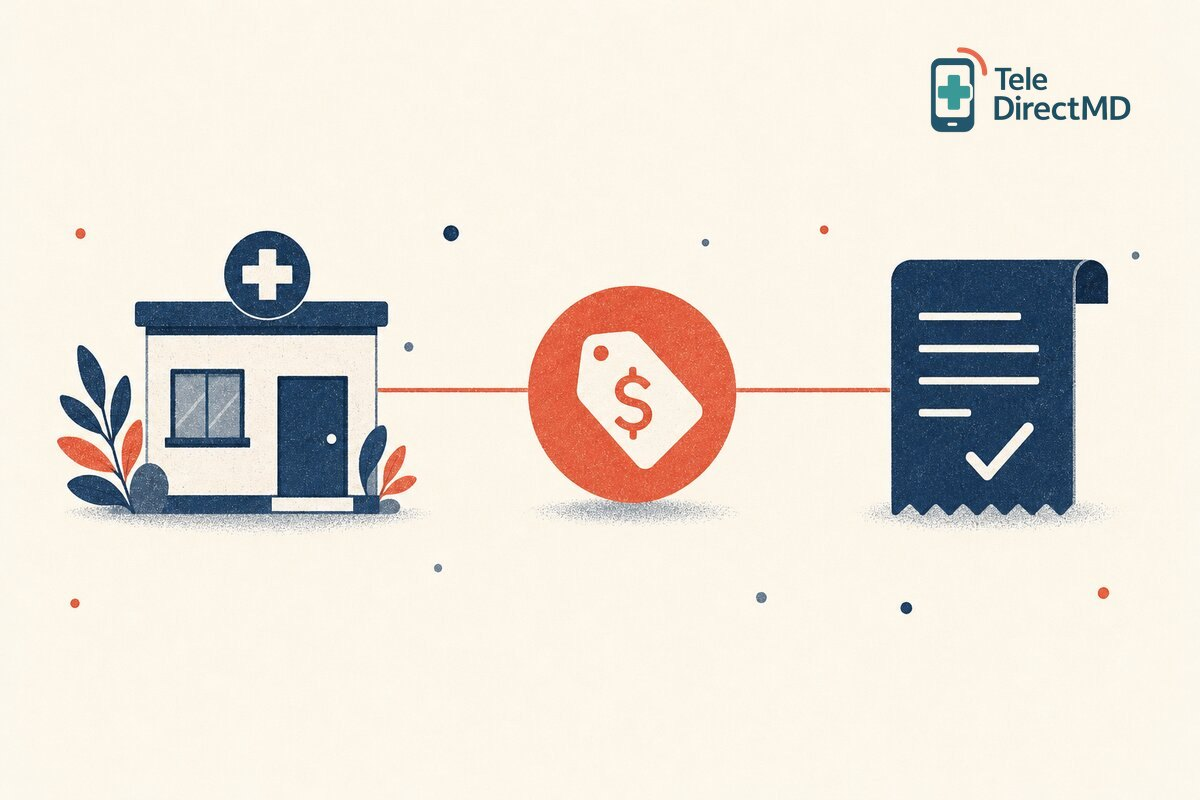
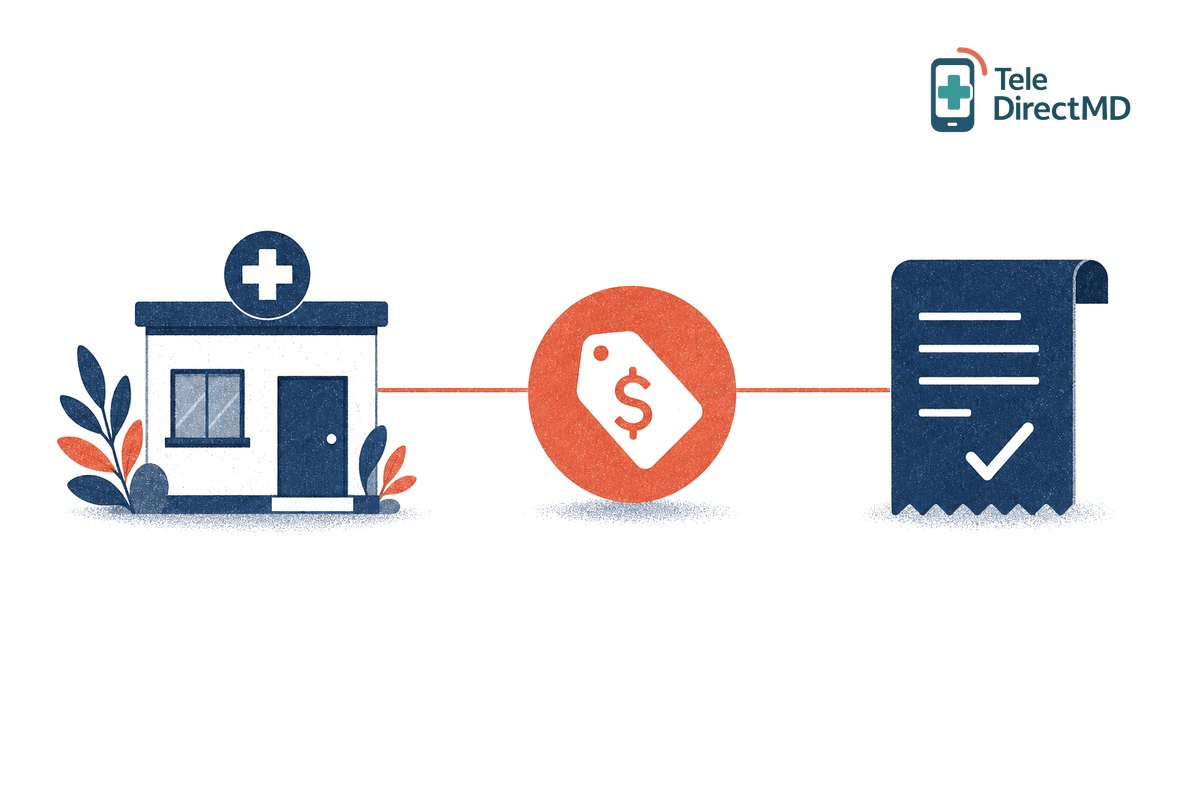
Urgent care cost page: plain white layout, hero on white without decorative dots
Removes the cream background, pill badge, stat tiles and card styling.

diff --git a/app/cost/urgent-care-cost-without-insurance/page.js b/app/cost/urgent-care-cost-without-insurance/page.js
@@ -251,7 +251,6 @@ export default function UrgentCareCostPage() {
         </nav>
 
         <header className="ucx-head">
-          <span className="ucx-badge">Cost data, 2026</span>
           <h1 className="ucx-h1">{TITLE}</h1>
           <p className="ucx-sub">
             Public benchmarks from Medicare, employer health plans and the national pharmacy cost survey, with what each
@@ -277,22 +276,6 @@ export default function UrgentCareCostPage() {
             per urgent care visit in 2022
             <Cite id="ref-hcci" />. X-rays, lab tests and prescriptions are billed on top.
           </p>
-          <ul className="ucx-keys">
-            <li>
-              <span className="ucx-key-n">{range([low13.v99213[0], high13.v99213[1]])}</span>
-              <span className="ucx-key-l">
-                Medicare 2026 returning-patient visit, lowest ({low13.state}) to highest ({high13.state}) area
-              </span>
-            </li>
-            <li>
-              <span className="ucx-key-n">{usd(N.x71046)}</span>
-              <span className="ucx-key-l">Medicare 2026 national amount, two-view chest x-ray</span>
-            </li>
-            <li>
-              <span className="ucx-key-n">Under $10</span>
-              <span className="ucx-key-l">What pharmacies paid for each of four common generic courses below</span>
-            </li>
-          </ul>
         </section>
 
         <figure className="ucx-hero">
@@ -300,7 +283,7 @@ export default function UrgentCareCostPage() {
             src={HERO}
             alt="Illustration of an urgent care clinic, a price tag and a paid receipt"
             width="1536"
-            height="1024"
+            height="500"
             loading="lazy"
           />
         </figure>
@@ -367,7 +350,8 @@ export default function UrgentCareCostPage() {
           <p>
             Medicare adjusts its rates for local costs. Where a state has more than one Medicare payment area, the table
             shows the lowest and highest. Use it as a reference point when a clinic quotes you a self-pay price; it is
-            not what any clinic must charge.
+            not what any clinic must charge. For a returning-patient visit, the 2026 amounts run from{' '}
+            {usd(low13.v99213[0])} in {low13.state} to {usd(high13.v99213[1])} in the highest-cost part of {high13.state}.
           </p>
           <p>
             <a className="ucx-dl" href={CSV_PATH} download>
@@ -626,59 +610,47 @@ export default function UrgentCareCostPage() {
 }
 
 const CSS = `
-.ucx{--ucx-navy:#003E52;--ucx-ink:#14232b;--ucx-muted:#4a5a62;--ucx-cream:#FBF6EE;--ucx-card:#ffffff;--ucx-line:#e6ddd0;--ucx-coral:#ff5a36;--ucx-coral-ink:#1a0b06;--ucx-teal:#0C8F99;--ucx-soft:#f4efe6;
-  background:var(--ucx-cream);color:var(--ucx-ink);font-family:'DM Sans',-apple-system,BlinkMacSystemFont,'Segoe UI',sans-serif;line-height:1.65;padding:8px 0 56px}
+.ucx{--ucx-navy:#003E52;--ucx-ink:#16242b;--ucx-muted:#4f5f67;--ucx-bg:#ffffff;--ucx-line:#dfe5e8;--ucx-head:#f3f6f7;--ucx-coral:#ff5a36;--ucx-coral-ink:#1a0b06;--ucx-teal:#0C8F99;
+  background:var(--ucx-bg);color:var(--ucx-ink);font-family:'DM Sans',-apple-system,BlinkMacSystemFont,'Segoe UI',sans-serif;line-height:1.65;padding:8px 0 56px}
 .ucx *{box-sizing:border-box}
-.ucx-wrap{max-width:880px;margin:0 auto;padding:0 20px}
+.ucx-wrap{max-width:860px;margin:0 auto;padding:0 20px}
 .ucx a{color:var(--ucx-navy);text-underline-offset:2px}
-.ucx-crumbs{display:flex;flex-wrap:wrap;gap:6px;font-size:14px;color:var(--ucx-muted);padding:16px 0 8px}
+.ucx-crumbs{display:flex;flex-wrap:wrap;gap:6px;font-size:14px;color:var(--ucx-muted);padding:18px 0 6px}
 .ucx-crumbs a{color:var(--ucx-muted)}
-.ucx-head{padding:12px 0 20px}
-.ucx-badge{display:inline-block;font-size:12px;font-weight:700;letter-spacing:.08em;text-transform:uppercase;color:var(--ucx-navy);background:#e7f1f3;border-radius:999px;padding:5px 12px}
-.ucx-h1{font-family:'Fraunces',Georgia,serif;font-weight:600;color:var(--ucx-navy);font-size:clamp(30px,5vw,46px);line-height:1.12;letter-spacing:-.01em;margin:14px 0 12px}
-.ucx-sub{font-size:clamp(17px,2.2vw,19px);color:var(--ucx-muted);margin:0 0 14px;max-width:760px}
-.ucx-meta{display:flex;flex-wrap:wrap;gap:6px 18px;font-size:14px;color:var(--ucx-muted)}
+.ucx-head{padding:10px 0 18px;border-bottom:1px solid var(--ucx-line);margin-bottom:24px}
+.ucx-h1{font-family:'Fraunces',Georgia,serif;font-weight:600;color:var(--ucx-navy);font-size:clamp(30px,5vw,44px);line-height:1.14;letter-spacing:-.01em;margin:8px 0 12px}
+.ucx-sub{font-size:clamp(17px,2.2vw,19px);color:var(--ucx-muted);margin:0 0 12px;max-width:760px}
+.ucx-meta{font-size:14px;color:var(--ucx-muted)}
+.ucx-answer{margin:0 0 28px}
+.ucx-answer-label{font-family:'Fraunces',Georgia,serif;font-size:clamp(21px,2.8vw,25px);font-weight:600;color:var(--ucx-navy);margin:0 0 8px}
+.ucx-answer p{margin:0;font-size:18px;line-height:1.7}
 .ucx-hero{margin:0 0 36px}
-.ucx-hero img{display:block;width:100%;height:auto;aspect-ratio:2/1;object-fit:cover;border-radius:14px;border:1px solid var(--ucx-line)}
-.ucx-answer{background:var(--ucx-card);border:1px solid var(--ucx-line);border-left:6px solid var(--ucx-coral);border-radius:14px;padding:22px 24px;margin:0 0 36px;box-shadow:0 2px 10px rgba(0,62,82,.05)}
-.ucx-answer-label{font-family:'DM Sans',sans-serif;font-size:13px;font-weight:700;letter-spacing:.08em;text-transform:uppercase;color:var(--ucx-coral);margin:0 0 8px}
-.ucx-answer p{margin:0 0 16px;font-size:17px}
-.ucx-keys{list-style:none;margin:0;padding:0;display:grid;grid-template-columns:repeat(3,1fr);gap:12px}
-.ucx-keys li{background:var(--ucx-soft);border-radius:10px;padding:12px 14px}
-.ucx-key-n{display:block;font-family:'Fraunces',Georgia,serif;font-size:21px;font-weight:600;color:var(--ucx-navy);line-height:1.25}
-.ucx-key-l{display:block;font-size:13.5px;color:var(--ucx-muted);line-height:1.45;margin-top:4px}
+.ucx-hero img{display:block;width:100%;height:auto}
 .ucx-sec{margin:0 0 40px}
-.ucx-h2{font-family:'Fraunces',Georgia,serif;font-weight:600;color:var(--ucx-navy);font-size:clamp(23px,3.2vw,30px);line-height:1.25;margin:0 0 14px}
-.ucx-h3{font-family:'DM Sans',sans-serif;font-weight:700;color:var(--ucx-ink);font-size:18px;margin:22px 0 6px}
+.ucx-h2{font-family:'Fraunces',Georgia,serif;font-weight:600;color:var(--ucx-navy);font-size:clamp(23px,3.2vw,29px);line-height:1.25;margin:0 0 12px}
+.ucx-h3{font-family:'DM Sans',sans-serif;font-weight:700;color:var(--ucx-ink);font-size:17px;margin:22px 0 6px}
 .ucx-sec p{margin:0 0 12px}
 .ucx-note{font-size:14px;color:var(--ucx-muted)}
 .ucx-cite{font-size:.72em;line-height:0;margin-left:1px}
 .ucx-cite a{text-decoration:none;font-weight:600}
-.ucx-table-wrap{overflow-x:auto;border:1px solid var(--ucx-line);border-radius:12px;background:var(--ucx-card);margin:8px 0 12px}
+.ucx-table-wrap{overflow-x:auto;border-top:2px solid var(--ucx-navy);margin:8px 0 12px}
 .ucx-table-wrap:focus{outline:2px solid var(--ucx-teal);outline-offset:2px}
-.ucx-tall{max-height:560px;overflow-y:auto}
+.ucx-tall{max-height:560px;overflow-y:auto;border-bottom:1px solid var(--ucx-line)}
 .ucx-table{width:100%;border-collapse:collapse;font-size:15px}
-.ucx-table th,.ucx-table td{padding:11px 14px;text-align:left;vertical-align:top;border-bottom:1px solid var(--ucx-line)}
-.ucx-table thead th{background:var(--ucx-navy);color:#fff;font-size:13.5px;font-weight:700;position:sticky;top:0;z-index:1}
+.ucx-table th,.ucx-table td{padding:10px 12px;text-align:left;vertical-align:top;border-bottom:1px solid var(--ucx-line)}
+.ucx-table thead th{background:var(--ucx-bg);color:var(--ucx-ink);font-size:13.5px;font-weight:700;position:sticky;top:0;z-index:1;box-shadow:inset 0 -1px 0 var(--ucx-ink)}
 .ucx-table tbody th{font-weight:600}
-.ucx-table tbody tr:last-child th,.ucx-table tbody tr:last-child td{border-bottom:0}
 .ucx-num{font-variant-numeric:tabular-nums;white-space:nowrap}
-.ucx-states tbody tr:nth-child(even){background:#fbf9f5}
-.ucx-natl{background:#e7f1f3 !important}
+.ucx-natl th,.ucx-natl td{font-weight:700;background:var(--ucx-head)}
 .ucx-loc{font-weight:400;color:var(--ucx-muted);font-size:13px}
-.ucx-dl{display:inline-flex;align-items:center;gap:8px;font-weight:700;font-size:15px;border:1.5px solid var(--ucx-navy);border-radius:999px;padding:7px 16px;text-decoration:none}
-.ucx-dl::before{content:'↓'}
+.ucx-dl{font-weight:700;font-size:15px}
 .ucx-byline{font-size:14px;color:var(--ucx-muted);margin-top:-6px}
-.ucx-cards{display:grid;grid-template-columns:repeat(3,1fr);gap:14px}
-.ucx-card{background:var(--ucx-card);border:1px solid var(--ucx-line);border-radius:12px;padding:16px 18px}
-.ucx-card .ucx-h3{margin-top:0}
+.ucx-cards{display:grid;grid-template-columns:repeat(3,1fr);gap:28px;border-top:1px solid var(--ucx-line);padding-top:6px}
+.ucx-card .ucx-h3{margin-top:12px}
 .ucx-card p{font-size:15px;margin:0}
-.ucx-card-er{border-color:#e9b3a5;background:#fff6f3}
-.ucx-tdmd{background:var(--ucx-navy);color:#eef6f8;border-radius:16px;padding:26px 26px 28px}
-.ucx-tdmd .ucx-h2{color:#fff}
-.ucx-tdmd a{color:#ffd9cd}
-.ucx-tdmd strong{color:#fff}
-.ucx .ucx-cta{display:inline-block;margin-top:8px;background:var(--ucx-coral);color:var(--ucx-coral-ink);font-weight:700;font-size:16px;font-family:'DM Sans',sans-serif;border-radius:999px;padding:12px 24px;text-decoration:none}
+.ucx-card-er .ucx-h3{color:#b3261e}
+.ucx-tdmd{border-top:2px solid var(--ucx-navy);border-bottom:1px solid var(--ucx-line);padding:20px 0 24px}
+.ucx .ucx-cta{display:inline-block;margin-top:6px;background:var(--ucx-coral);color:var(--ucx-coral-ink);font-weight:700;font-size:16px;font-family:'DM Sans',sans-serif;border-radius:8px;padding:11px 22px;text-decoration:none}
 .ucx .ucx-cta:hover{background:#ff7a5c}
 .ucx-method ul{margin:0;padding-left:20px}
 .ucx-method li{margin:0 0 8px}
@@ -688,23 +660,15 @@ const CSS = `
 .ucx-disclaimer{font-size:14px;color:var(--ucx-muted);border-top:1px solid var(--ucx-line);padding-top:16px}
 .ucx-sr{position:absolute;width:1px;height:1px;overflow:hidden;clip:rect(0 0 0 0);white-space:nowrap}
 @media (max-width:760px){
-  .ucx-keys,.ucx-cards{grid-template-columns:1fr}
-  .ucx-answer{padding:18px}
+  .ucx-cards{grid-template-columns:1fr;gap:4px}
+  .ucx-answer p{font-size:17px}
   .ucx-table{font-size:14px}
-  .ucx-table th,.ucx-table td{padding:9px 10px}
-  .ucx-tdmd{padding:22px 18px}
+  .ucx-table th,.ucx-table td{padding:9px 8px}
 }
 ${darkCSS(`
-DARK .ucx{--ucx-navy:#a0d8e8;--ucx-ink:#e2edf0;--ucx-muted:#9fb6bf;--ucx-cream:#0a171c;--ucx-card:#122028;--ucx-line:#33505d;--ucx-soft:#0f1f24}
-DARK .ucx-badge{background:#16323b;color:#a0d8e8}
-DARK .ucx-table thead th{background:#16323b;color:#e2edf0}
-DARK .ucx-states tbody tr:nth-child(even){background:#0f1f24}
-DARK .ucx-natl{background:#16323b !important}
-DARK .ucx-card-er{background:#2a1712;border-color:#7a3a2a}
-DARK .ucx-tdmd{background:#0f2a33;color:#e2edf0}
-DARK .ucx-tdmd .ucx-h2,DARK .ucx-tdmd strong{color:#fff}
-DARK .ucx-tdmd a{color:#ffb39f}
+DARK .ucx{--ucx-navy:#a0d8e8;--ucx-ink:#e2edf0;--ucx-muted:#9fb6bf;--ucx-bg:#0a171c;--ucx-line:#2a4350;--ucx-head:#10232a}
+DARK .ucx-card-er .ucx-h3{color:#ff8a75}
+DARK .ucx-hero img{filter:brightness(.92);border-radius:10px}
 DARK .ucx .ucx-cta{color:#1a0b06}
-DARK .ucx-hero img{border-color:#33505d}
 `)}
 `;
